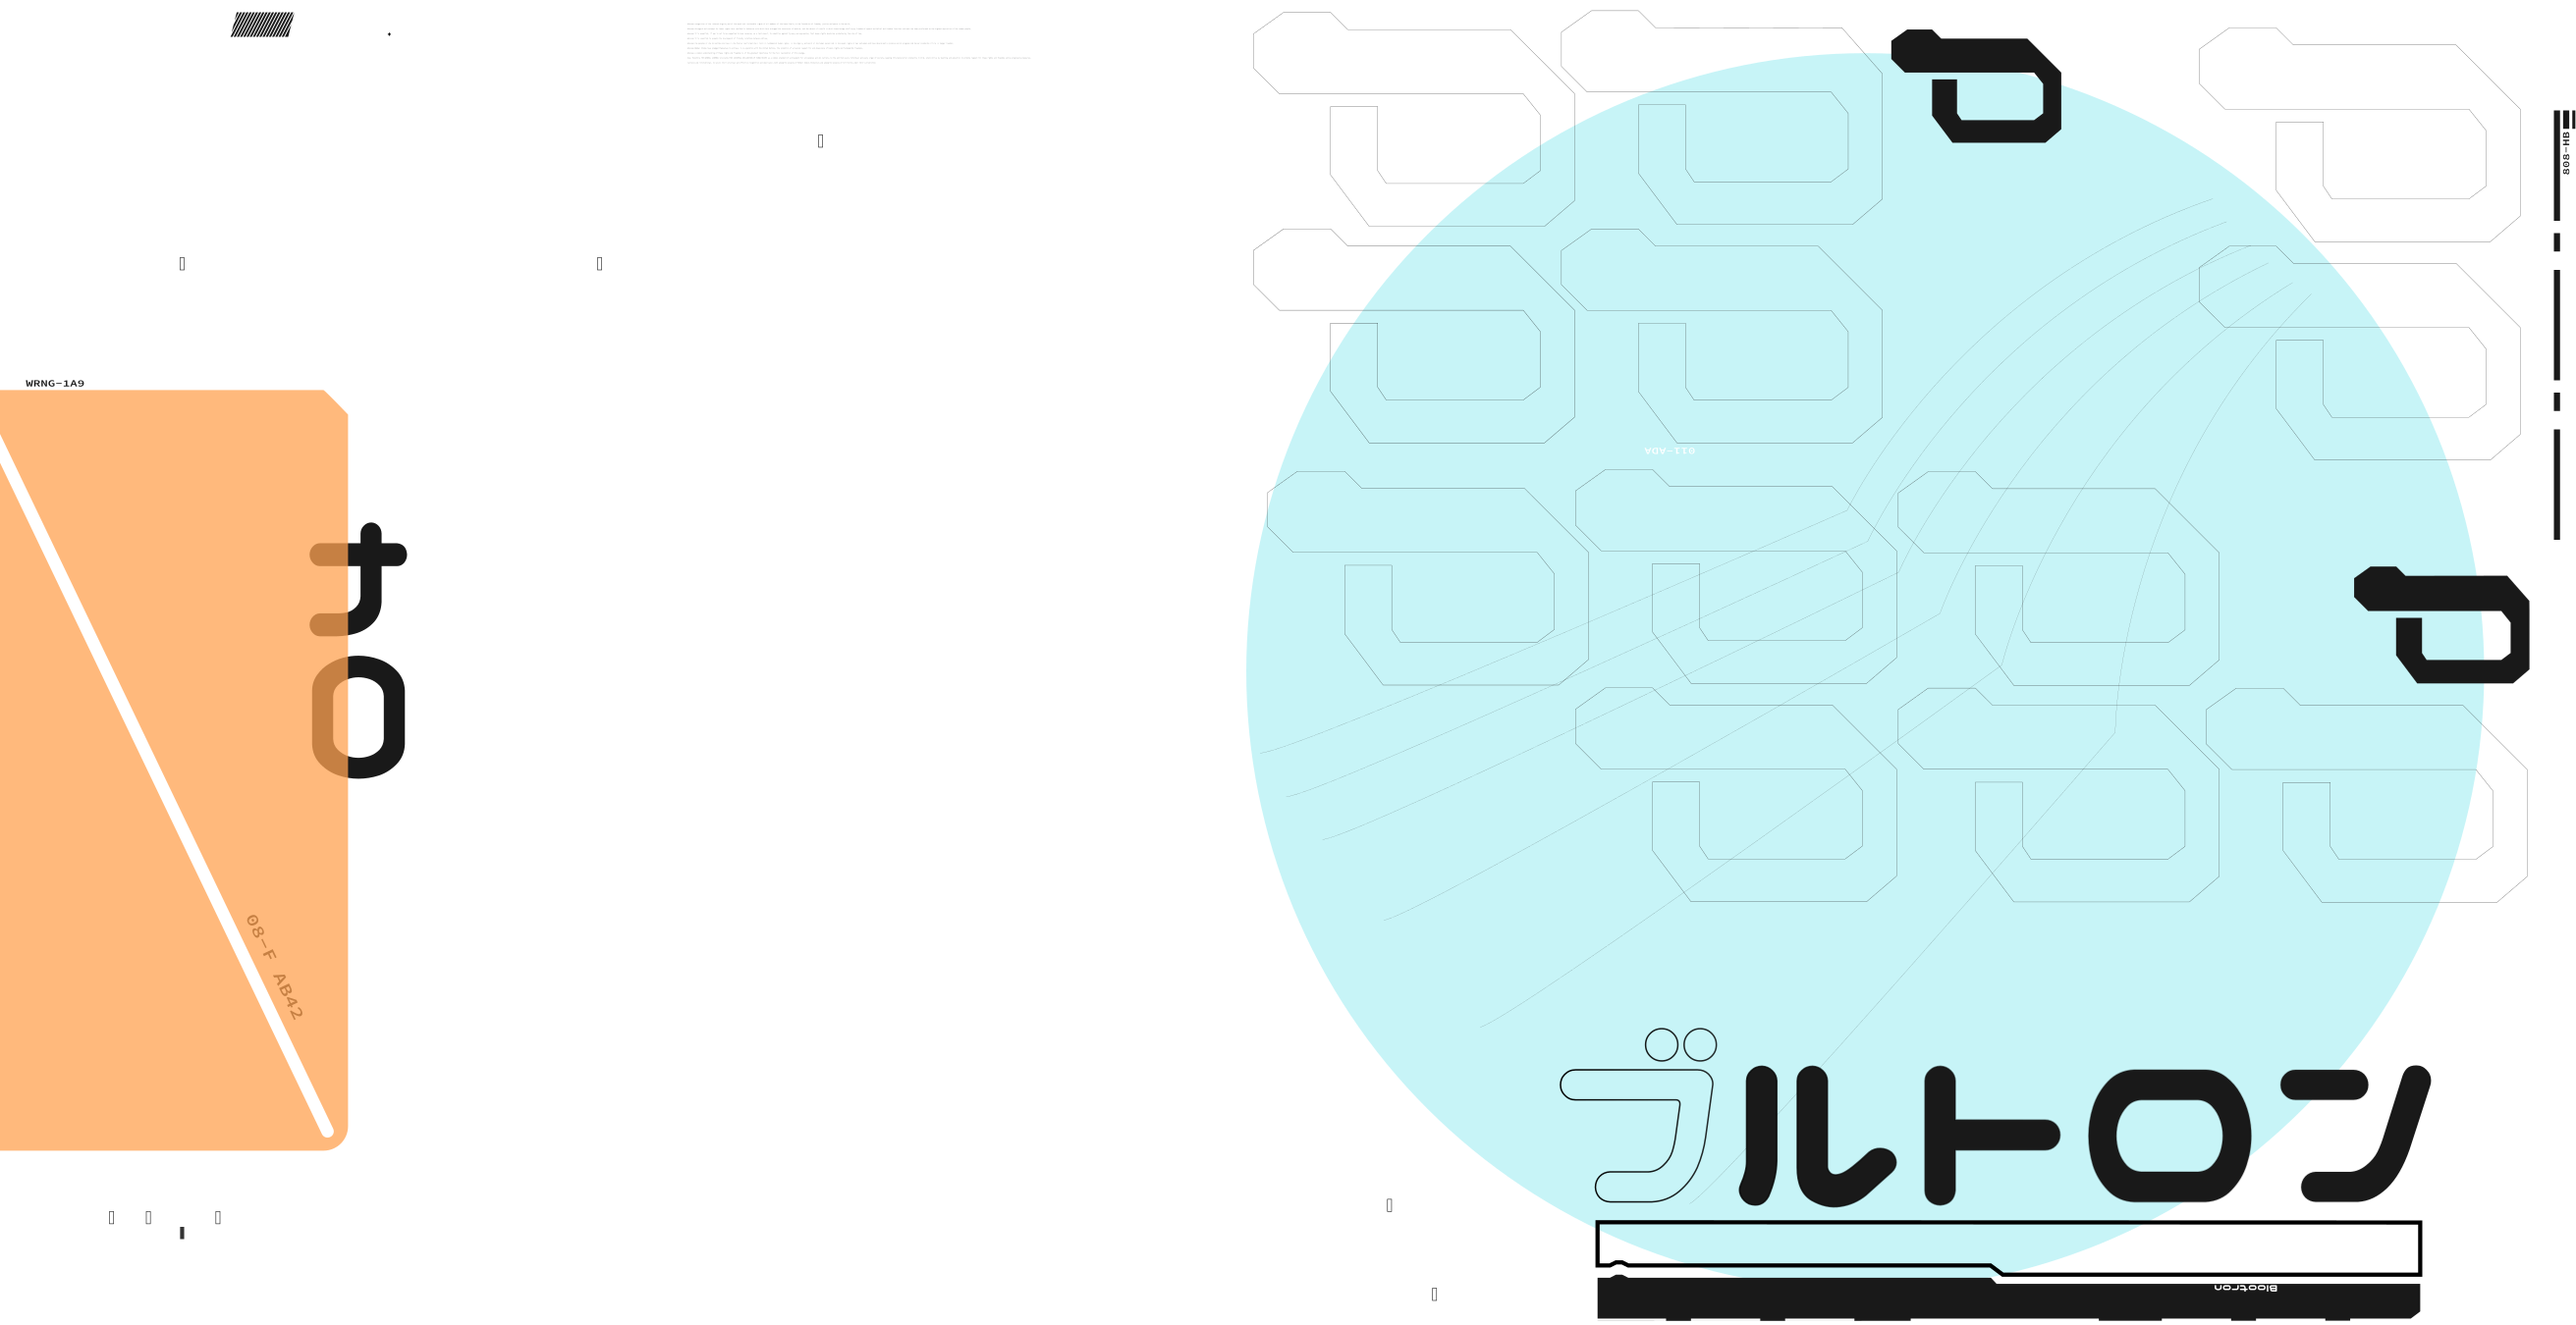
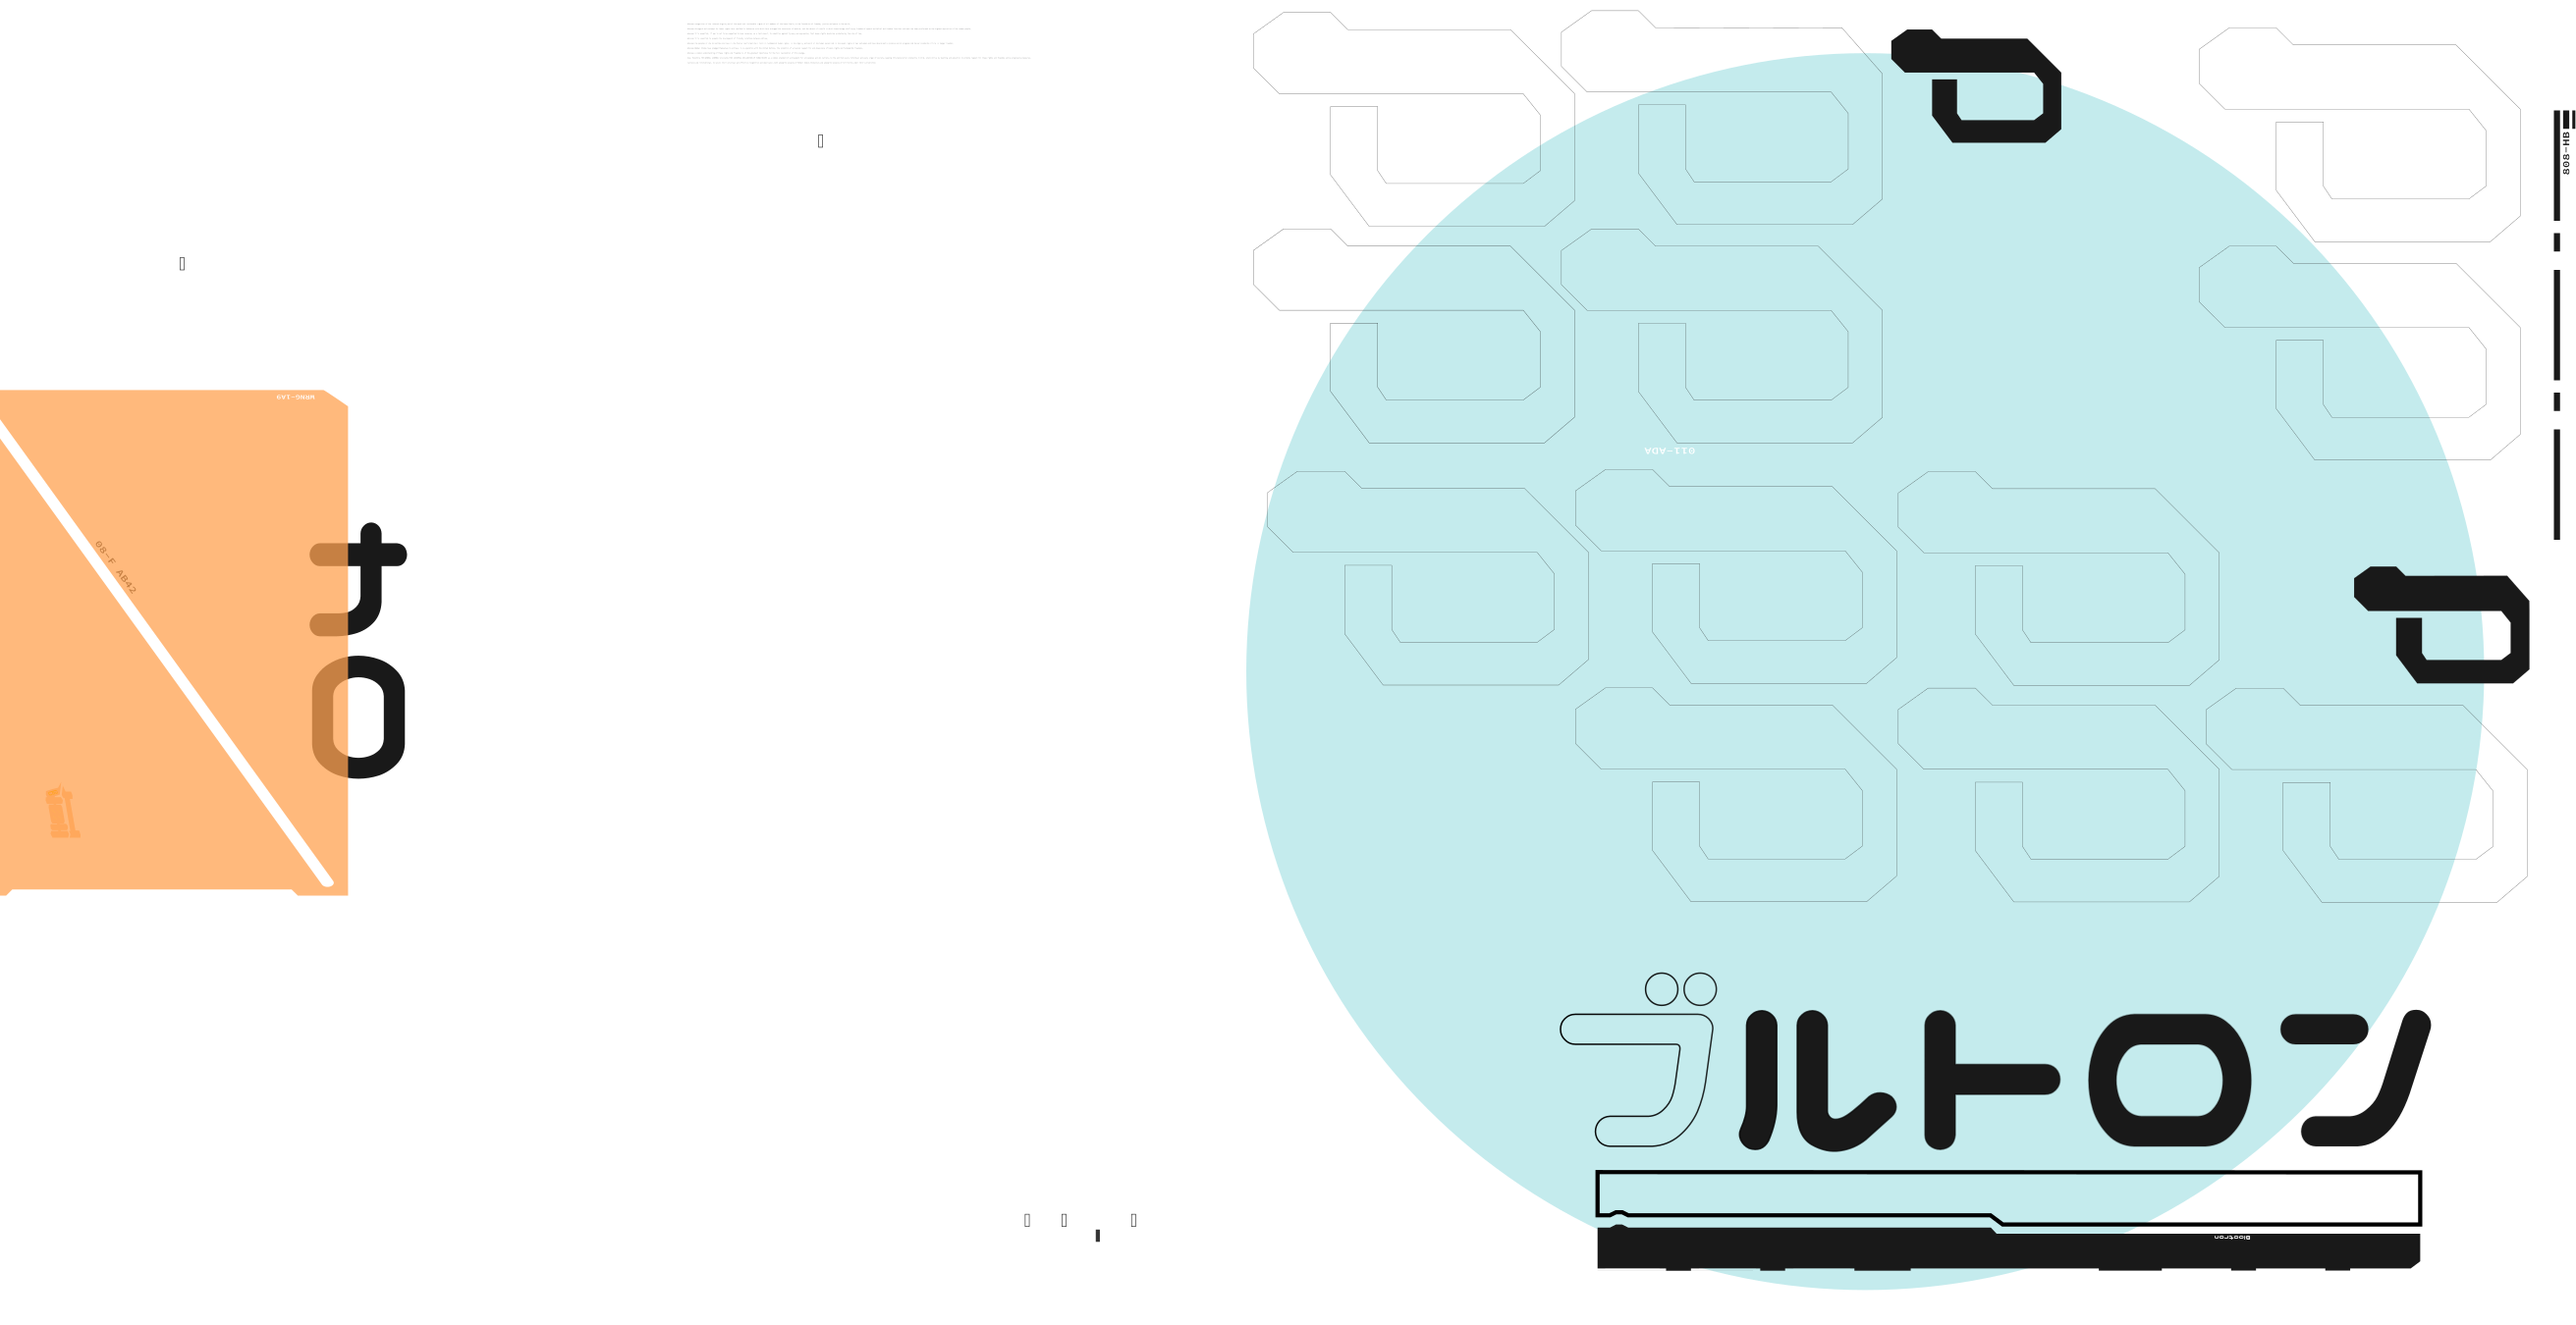
Modify everything yeehaw.

diff --git a/index.html b/index.html
@@ -48,7 +48,6 @@
                 Target on my back. Target on my back. Target on my back.
                 Target on my back. Target on my back. Target on my back.
               </p>
-              <img src="./logo.png">
             </div>
           </div>
           <div id='right_col' class="col">

diff --git a/css/power.css b/css/power.css
@@ -27,6 +27,10 @@ a, a:hover {color: inherit; text-decoration: none;}
 }
 #window_bar {
 }
+#logo {
+  position: absolute;
+  top: 0; left: 0;
+}
 #left_col {
   margin-right: 10vw;
 
